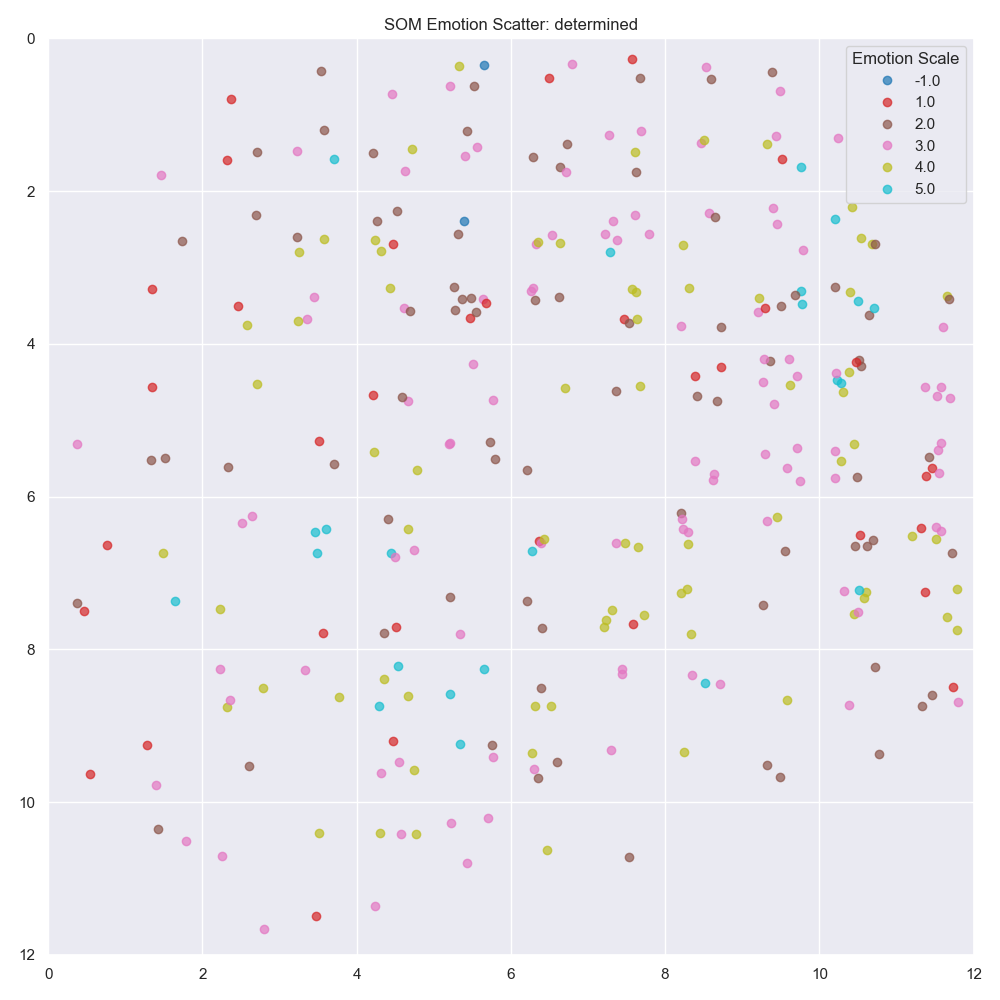
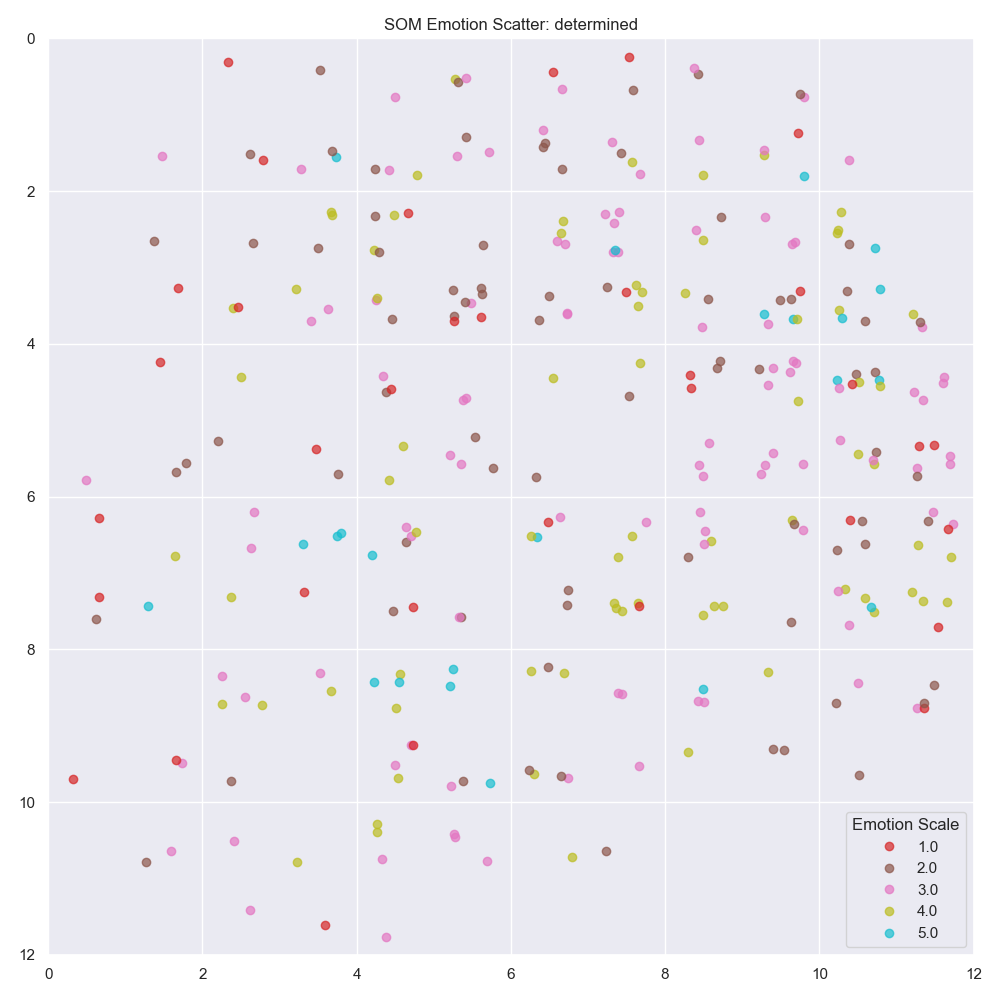
filtered out wrong scale values for emotion scale plots

diff --git a/src/case2/subspace_methods/som.py b/src/case2/subspace_methods/som.py
@@ -3,14 +3,13 @@ import pandas as pd
 import matplotlib.pyplot as plt
 from minisom import MiniSom
 from pathlib import Path
-from data_loader import load_data
 from collections import defaultdict
 import seaborn as sns
 from matplotlib.cm import get_cmap
 import os
 
 sns.set_theme(style="darkgrid")
-FIG_DIR = Path(__file__).parent.parent.parent / "docs" / "figures" / "som"
+FIG_DIR = Path(__file__).parent.parent.parent.parent / "docs" / "figures" / "som"
 
 def preprocess_som_data(X: pd.DataFrame, y: pd.DataFrame) -> tuple[pd.DataFrame, pd.DataFrame]:
     """
@@ -122,8 +121,11 @@ def plot_label_heatmaps(som: MiniSom, X: np.ndarray, y: pd.DataFrame, emotion: s
 
     label_map = defaultdict(list)
     for i, x in enumerate(X):
+        val = int(y.iloc[i][emotion])
+        if val in [-1, 0]:  # skip invalid labels
+            continue
         winner = som.winner(x)
-        label_map[winner].append(y.iloc[i][emotion])
+        label_map[winner].append(val)
 
     x_dim, y_dim, _ = som.get_weights().shape
     averaged_map = np.zeros((x_dim, y_dim))
@@ -150,6 +152,12 @@ def plot_emotion_scatter(som: MiniSom, X: np.ndarray, y: pd.Series, emotion: str
     """
     plt.figure(figsize=(10, 10))
 
+    # Filter out invalid emotion values
+    y = y.astype(float)  # Optional: ensure consistency
+    mask = ~((y == 0.0) | (y == -1.0))
+    X_filtered = X[mask.values]
+    y_filtered = y[mask]
+
     unique_vals = sorted(y.unique())
     val_min, val_max = min(unique_vals), max(unique_vals)
     cmap = get_cmap("tab10" if val_max <= 10 else "tab20")
@@ -157,7 +165,7 @@ def plot_emotion_scatter(som: MiniSom, X: np.ndarray, y: pd.Series, emotion: str
     # Track added labels to prevent duplicate legends
     added_labels = set()
 
-    for x_vec, val in zip(X, y):
+    for x_vec, val in zip(X_filtered, y_filtered):
         bmu = som.winner(x_vec)
         jitter_x = bmu[0] + 0.5 + 0.6 * np.random.rand() - 0.3
         jitter_y = bmu[1] + 0.5 + 0.6 * np.random.rand() - 0.3
@@ -281,7 +289,7 @@ def plot_phase_trajectories(som: MiniSom, X_scaled: pd.DataFrame, df: pd.DataFra
     plt.savefig(FIG_DIR / "som_phase_trajectories.png")
     plt.close()
 
-def som_pipeline():
+def som_pipeline(X_df, y_df):
     """
     Main pipeline for SOM analysis.
     1. Load and preprocess data.
@@ -293,8 +301,7 @@ def som_pipeline():
          - Phase-wise hit maps
          - Plot trajectories for individuals
      """
-    # Fetch and preprocess data
-    df, X_df, y_df = load_data()
+    # Preprocess data
     X_scaled, y_processed = preprocess_som_data(X_df, y_df)
 
     # Train SOM
@@ -307,7 +314,7 @@ def som_pipeline():
     os.makedirs(FIG_DIR / "phase_hitmaps", exist_ok=True)
     
     # U-Matrix
-    plot_u_matrix(som)
+    #plot_u_matrix(som)
 
     # Visualize label heatmaps and scatter maps for each emotion label
     emotions = [
@@ -319,7 +326,7 @@ def som_pipeline():
             plot_label_heatmaps(som, X_scaled.to_numpy(), y_processed, emotion)
             plot_emotion_scatter(som, X_scaled.to_numpy(), y_processed[emotion], emotion)
 
-    # Phase scatter: Where do phases land on the SOM?
+    """  # Phase scatter: Where do phases land on the SOM?
     plot_bmu_scatter_by_phase(som, X_df, y_df, df)
 
     # Phase-wise hit maps
@@ -330,3 +337,4 @@ def som_pipeline():
 
     # Plot trajectories for individuals
     plot_phase_trajectories(som, X_scaled, df, max_individuals=3)
+    """

diff --git a/src/case2/main.py b/src/case2/main.py
@@ -4,20 +4,20 @@ from decomposition.nmf import run_nmf_pipeline
 from decomposition.ica import run_ica_pipeline
 from decomposition.aa import run_aa_pipeline
 from decomposition.sc import run_sc_pipeline
-from som import som_pipeline
+from subspace_methods.som import som_pipeline
 
 def main():
     # Loading the data
     hr_df, X, y = run_data_loading()
-
+    """
     # Decomposition methods
     run_nmf_pipeline(X, y)
     run_ica_pipeline(X, y)
     run_aa_pipeline(X, y)
-    run_sc_pipeline(X, y)
+    run_sc_pipeline(X, y) """
     
     # Subspace methods
-    som_pipeline()
+    som_pipeline(X, y)
 
 
 if __name__ == "__main__":
